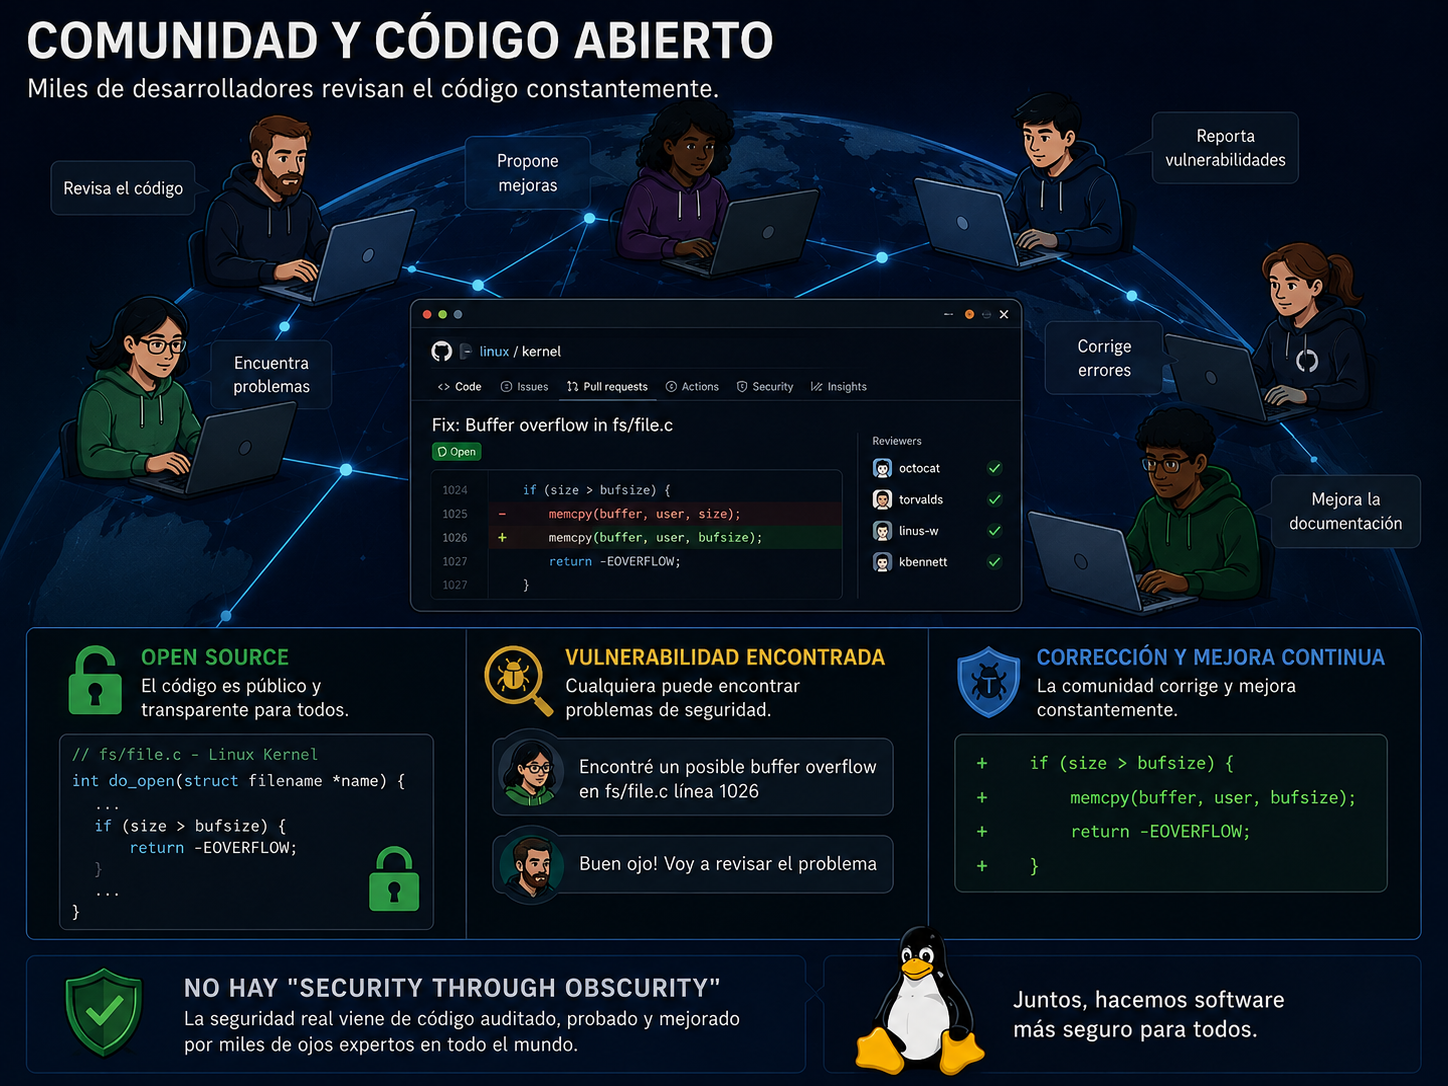
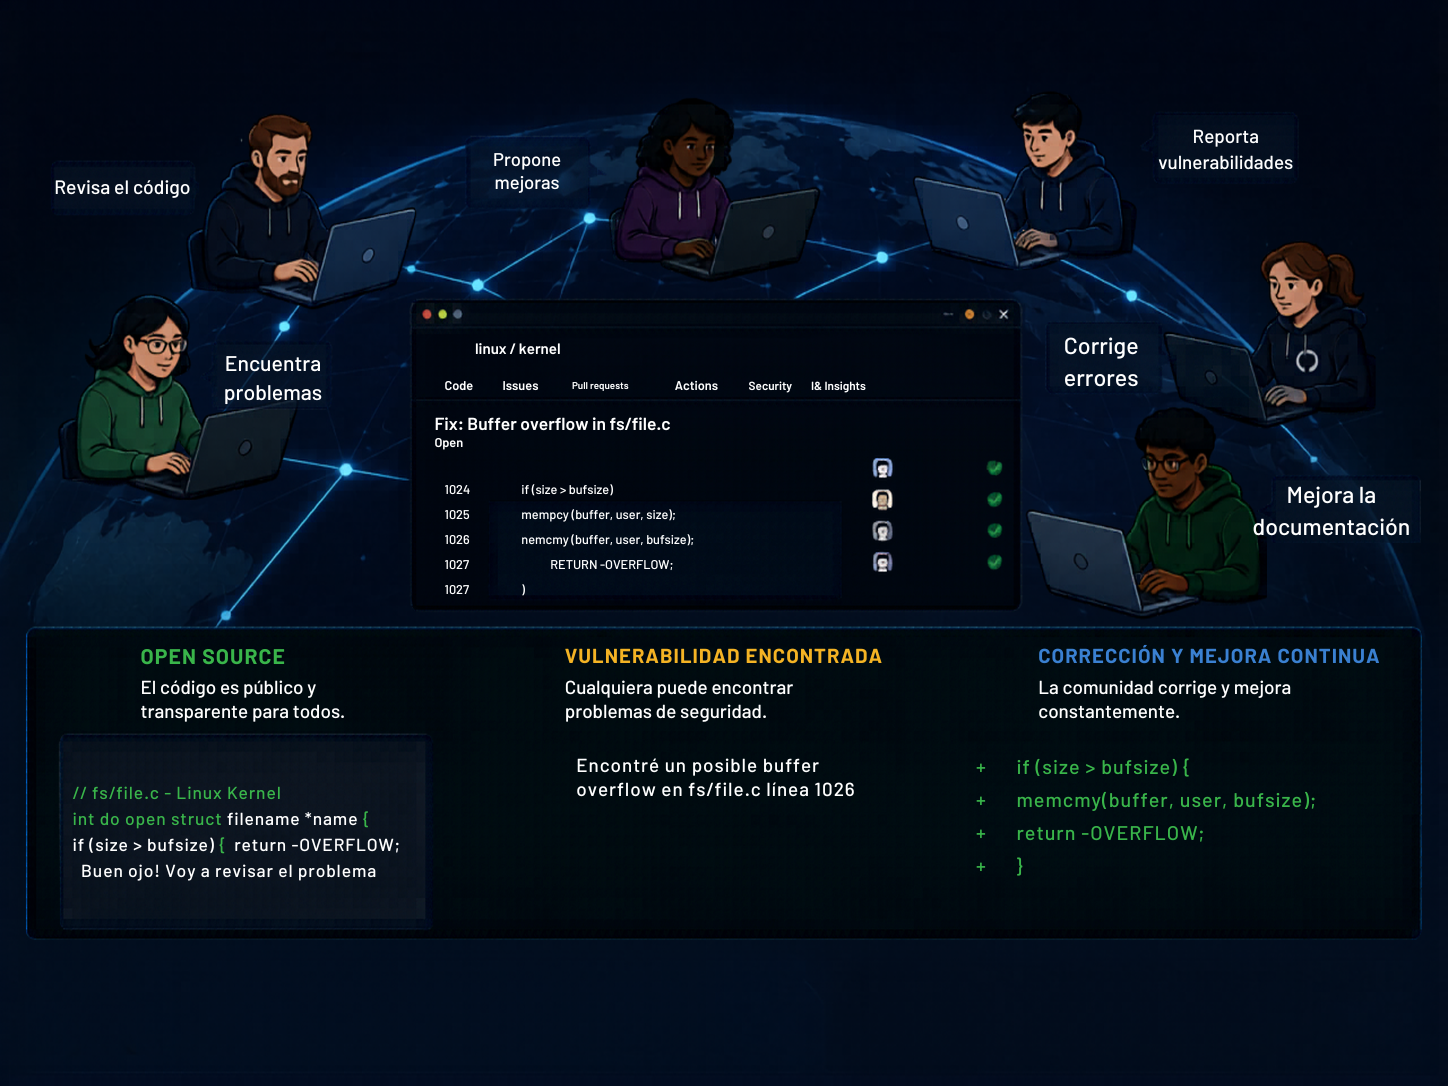
Corrijo imagenes de ciberseguridad

diff --git a/HTML/Ciberseguridad.html b/HTML/Ciberseguridad.html
@@ -126,7 +126,7 @@
               </div>
               <div class="ciberseguridad-image">
                 <img
-                  src="../IMGS/Permisos _en -liinux.png"
+                  src="../IMGS/Permisos-_en-liinux.png"
                   alt="Permisos Linux"
                 />
               </div>
